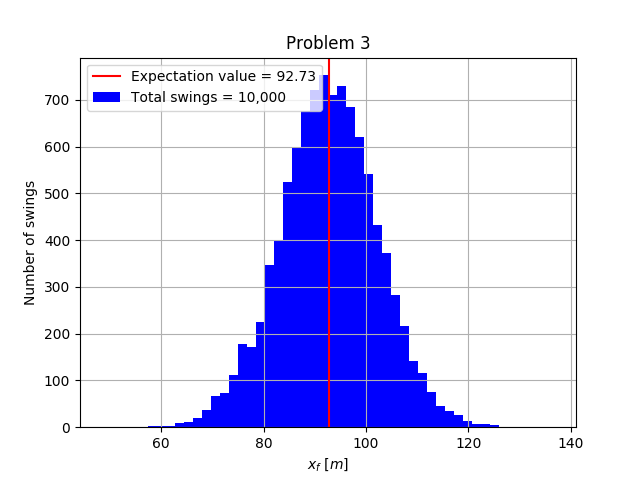
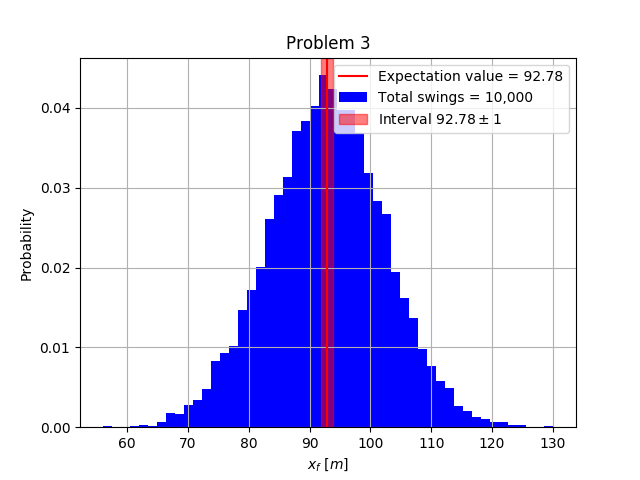
Updated image for problem 3 to show interval.

diff --git a/Solutions/Assignment 9 - Final Project/README.rst b/Solutions/Assignment 9 - Final Project/README.rst
@@ -45,10 +45,10 @@ Problem 3 Sample Output:
 
     Problem 3:
 
-    The expectation value is <x_f> = 92.73 meters.
+    The expectation value is <x_f> = 92.78 meters.
 
     The probability of the ball landing within 1 meter of the expectation value is
-    0.08 (8.00%).
+    0.0860 (8.60%).
 
 .. image:: Sample%20Output/Problem%203.png
    :width: 40pt
